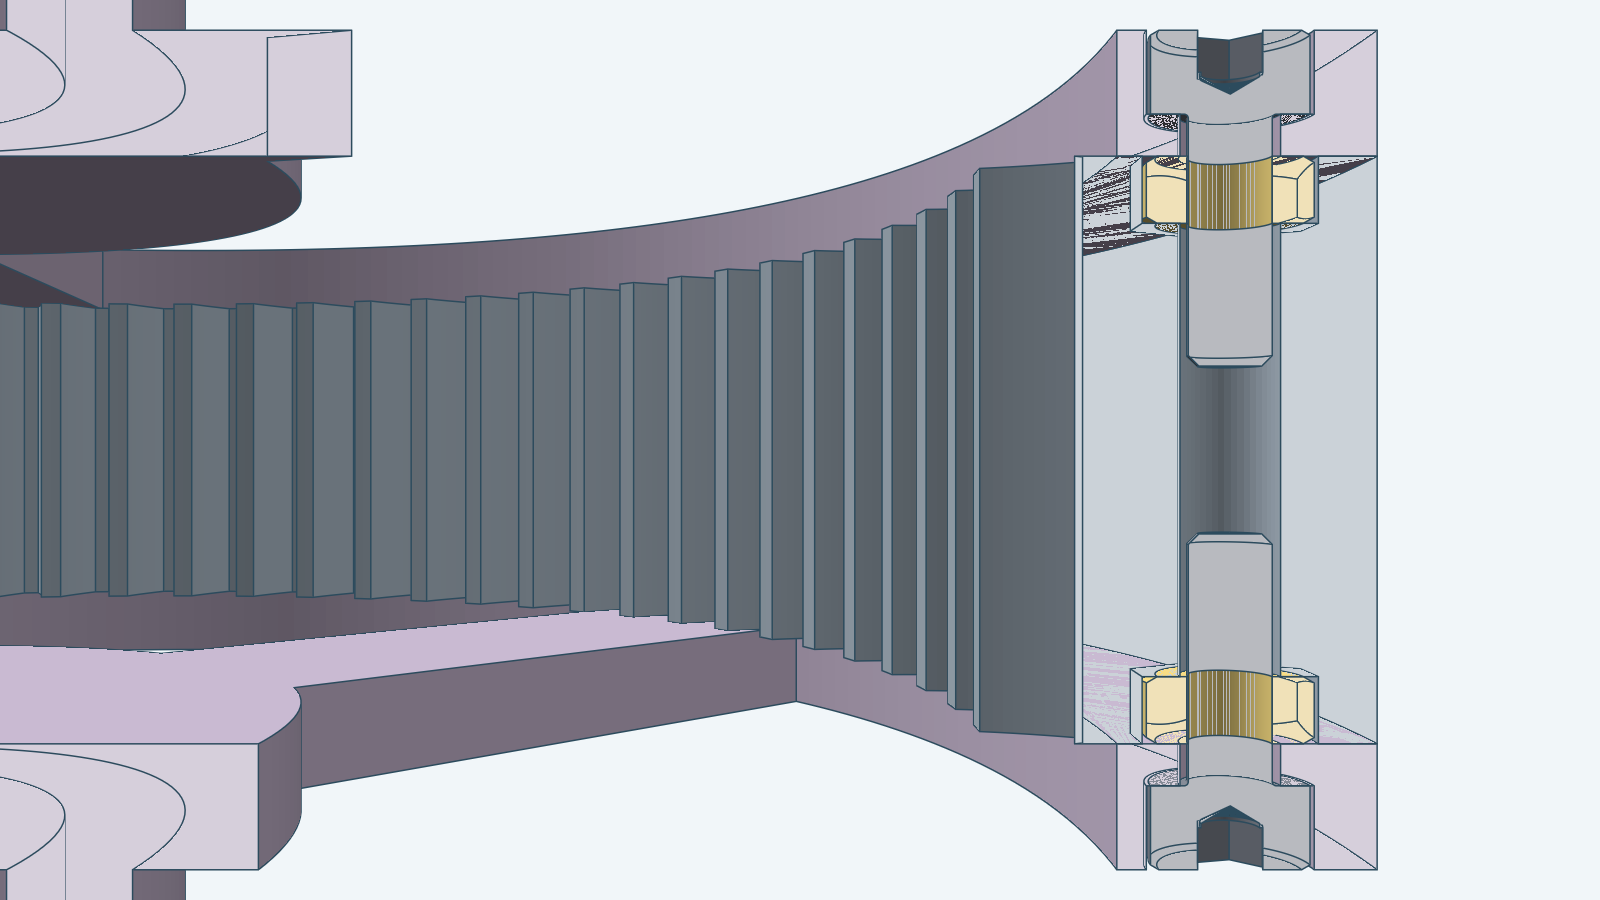
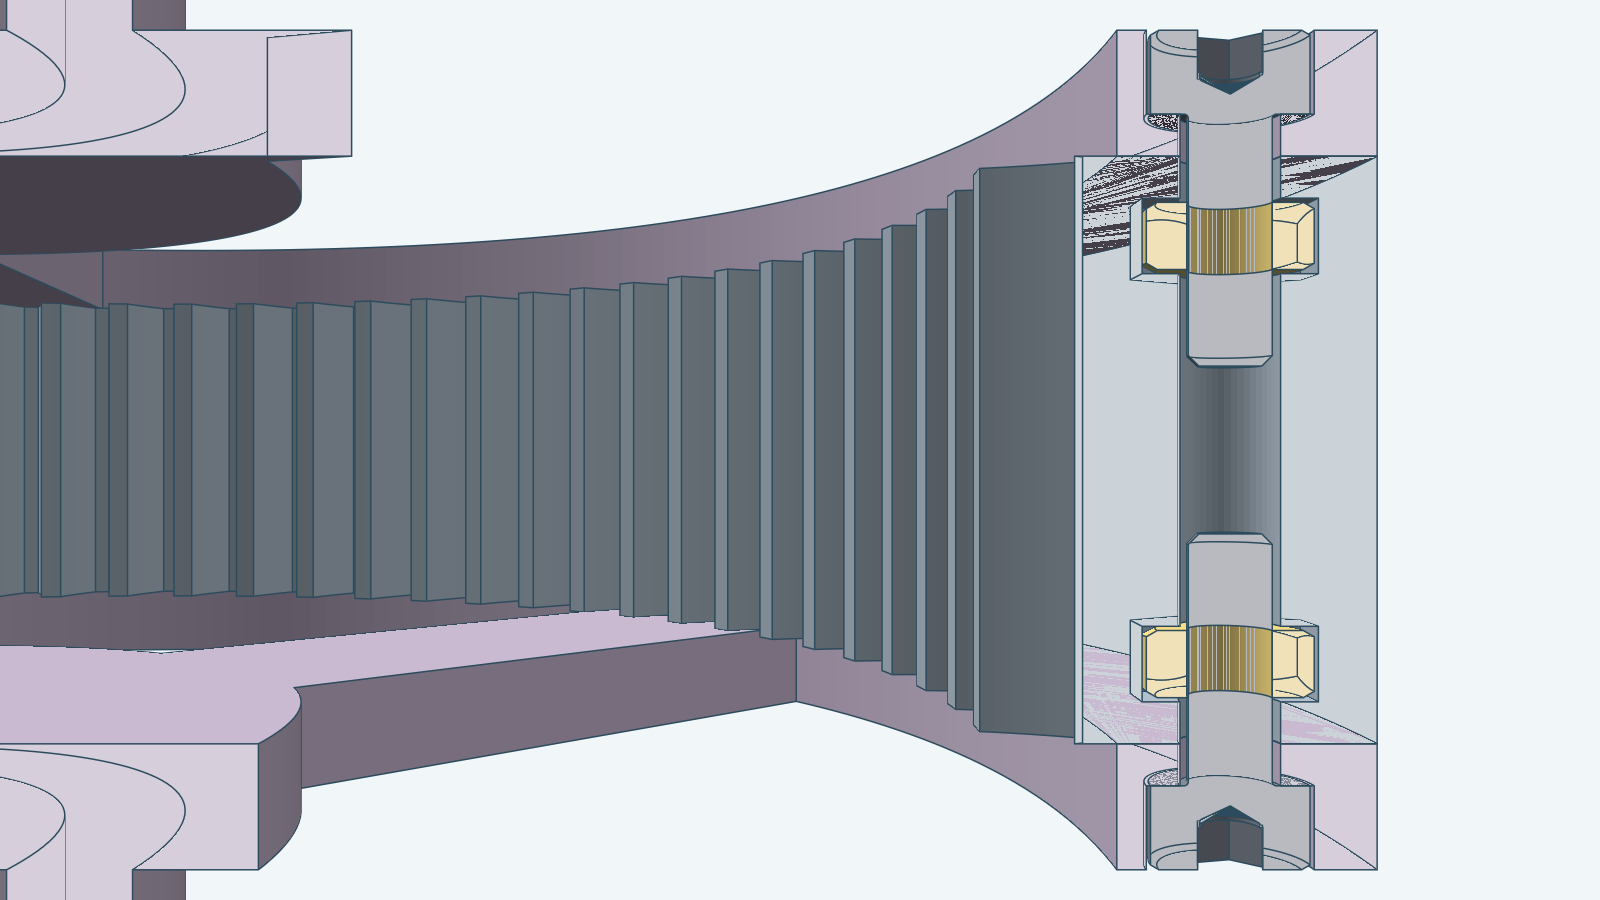
hold the planetary nuts in closed ring cavities

Changed region(s): [[0.6875, 0.1556, 0.8438, 0.3111], [0.6875, 0.6844, 0.8438, 0.84]]

diff --git a/models/planetarygearbox/fasteners.go b/models/planetarygearbox/fasteners.go
@@ -23,8 +23,11 @@ const (
 	// fastenerLength is the bolt length: the shortest standard M2 length. Each bolt holds one cover to the ring,
 	// so its length does not depend on the number of stages.
 	fastenerLength = 6.0
-	// fastenerStock is the pocket tool's reach beyond a face, so no tool face lies in a body face.
+	// fastenerStock is the head pocket tool's reach beyond a face, so no tool face lies in a body face.
 	fastenerStock = 1.0
+	// nutRoof is the ring material between a ring end face and the cavity that holds a nut. The bolt hole runs
+	// through it, and it keeps the nut from falling out of the ring.
+	nutRoof = 1.0
 )
 
 // FrontBoltName is the name of front bolt i (0-based). Four bolts hold each cover to the ring, each head sunk flush
@@ -43,8 +46,11 @@ func RearNutName(i int) string { return fmt.Sprintf("Rear Nut %d", i+1) }
 // headPocketDiameter is the diameter of the pocket that sinks a bolt head in a cover.
 func headPocketDiameter() float64 { return m2bolt.HeadDiameter + 2*fastenerClearance }
 
-// nutPocketFlats is the across-flats width of the pocket that sinks a nut in the ring.
+// nutPocketFlats is the across-flats width of the cavity that holds a nut in the ring.
 func nutPocketFlats() float64 { return m2nut.AcrossFlats + 2*fastenerClearance }
+
+// nutCavityHeight is the axial height of the cavity that holds a nut: the nut's thickness and the clearance at each face.
+func nutCavityHeight() float64 { return m2nut.Thickness + 2*fastenerClearance }
 
 // cutHeadPockets cuts the cover's four head pockets into the +Z (outer) face of the frame so the
 // bolt head ends level with the face.
@@ -92,11 +98,10 @@ func (r *run) cutHeadPockets(ctx context.Context, cover *decad.Body) (*decad.Bod
 	return cover, nil
 }
 
-// buildNutTool builds the cutter for one nut pocket about the local origin: a hexagon of the pocket's
-// across-flats width with its flats parallel to X, from fastenerStock below the origin to the nut's thickness
-// above it.
+// buildNutTool builds the cutter for one nut cavity about the local origin: a hexagon of the cavity's
+// across-flats width with its flats parallel to X, from the origin up the cavity height.
 func (r *run) buildNutTool(ctx context.Context) (*decad.Body, error) {
-	plane, err := r.planeAt(-fastenerStock)
+	plane, err := r.planeAt(0)
 	if err != nil {
 		return nil, fmt.Errorf("nut pocket: %w", err)
 	}
@@ -119,7 +124,7 @@ func (r *run) buildNutTool(ctx context.Context) (*decad.Body, error) {
 		return nil, err
 	}
 	tool, err := decad.Extrude(ctx, r.doc, s, profile,
-		decad.Distance{D: units.Millimeters(fastenerStock + m2nut.Thickness), Dir: decad.Along})
+		decad.Distance{D: units.Millimeters(nutCavityHeight()), Dir: decad.Along})
 	if err != nil {
 		return nil, fmt.Errorf("nut pocket: extrude: %w", err)
 	}
@@ -139,39 +144,40 @@ func (r *run) fastenerSites() []fastenerSite {
 	return sites
 }
 
-// cutNutPockets sinks a hexagonal pocket for a nut in each end face of the ring blank, at the four bolt angles.
-// The blank is the ring's outer cylinder in construction coordinates, from ringMargin up the ring length. A nut's
-// flats face the bolt circle's radius, so the pocket keeps the most wall. The pockets are cut before the tooth
-// spaces, because the cuts then run on a plain cylinder.
+// cutNutPockets cuts a closed hexagonal cavity for a nut inside each end of the ring blank, at the four bolt
+// angles. The blank is the ring's outer cylinder in construction coordinates, from ringMargin up the ring length.
+// A cavity starts nutRoof inside the end face, so the bolt hole is its only opening and the nut cannot fall out of
+// the ring. The nut goes in while the ring prints, with a pause under the cavity's roof. A nut's flats face the bolt
+// circle's radius, so the cavity keeps the most wall. The cavities are cut before the tooth spaces, because the
+// cuts then run on a plain cylinder.
 func (r *run) cutNutPockets(ctx context.Context, blank *decad.Body) (*decad.Body, error) {
 	tool, err := r.buildNutTool(ctx)
 	if err != nil {
 		return nil, err
 	}
-	// The tool spans [z-1, z+1.6]. The front pocket needs [front, front+1.6]; the rear one needs [end-1.6, end+1].
-	front := float64(ringMargin)
-	rear := front + r.d.ringLength - m2nut.Thickness + fastenerStock
+	front := float64(ringMargin) + nutRoof
+	rear := float64(ringMargin) + r.d.ringLength - nutRoof - nutCavityHeight()
 	var moves []r3.Transform
 	for _, z := range []float64{front, rear} {
 		for _, s := range r.fastenerSites() {
 			m, err := pose(r3.Identity(), nutAngle(s), s.x, s.y, z)
 			if err != nil {
-				return nil, fmt.Errorf("nut pocket pose: %w", err)
+				return nil, fmt.Errorf("nut cavity pose: %w", err)
 			}
 			moves = append(moves, m)
 		}
 	}
 	tools, err := instances(ctx, tool, moves)
 	if err != nil {
-		return nil, fmt.Errorf("nut pockets: %w", err)
+		return nil, fmt.Errorf("nut cavities: %w", err)
 	}
 	for i, t := range tools {
 		if blank, err = decad.Cut(ctx, blank, t); err != nil {
-			return nil, fmt.Errorf("cut nut pocket %d: %w", i, err)
+			return nil, fmt.Errorf("cut nut cavity %d: %w", i, err)
 		}
 	}
 	if !blank.IsSolid() {
-		return nil, fmt.Errorf("ring blank with nut pockets is not a solid")
+		return nil, fmt.Errorf("ring blank with nut cavities is not a solid")
 	}
 	return blank, nil
 }
@@ -179,14 +185,16 @@ func (r *run) cutNutPockets(ctx context.Context, blank *decad.Body) (*decad.Body
 // nutAngle is the turn that puts a nut's flats toward the bolt circle's radius; its corners lie on X at zero turn.
 func nutAngle(s fastenerSite) float64 { return s.angle - math.Pi/2 }
 
-// buildFasteners builds the eight M2 bolts and nuts. Each bolt's head ends level with its cover's outer face and
-// each nut ends level with the ring's end face, so nothing stands proud. The bolt tip stays inside the ring's bolt
-// hole beyond the nut.
+// buildFasteners builds the eight M2 bolts and nuts. Each bolt's head ends level with its cover's outer face, so
+// nothing stands proud, and each nut sits in its closed cavity in the ring. The bolt tip stays inside the ring's
+// bolt hole beyond the nut.
 func (r *run) buildFasteners(ctx context.Context, box *Gearbox) error {
 	p, d := r.p, r.d
 	ringEnd := d.ringLength - p.StageGap
 	sites := r.fastenerSites()
-	frontZ := -p.StageGap
+	// A nut rests in its cavity with the clearance below it.
+	frontNutZ := -p.StageGap + nutRoof + fastenerClearance
+	rearNutZ := ringEnd - nutRoof - fastenerClearance - m2nut.Thickness
 	var err error
 
 	bolt, err := m2bolt.Build(ctx, r.doc, m2bolt.Params{Length: fastenerLength})
@@ -216,7 +224,7 @@ func (r *run) buildFasteners(ctx context.Context, box *Gearbox) error {
 		}
 		boltMoves = append(boltMoves, m)
 	}
-	for _, z := range []float64{frontZ, ringEnd - m2nut.Thickness} {
+	for _, z := range []float64{frontNutZ, rearNutZ} {
 		for _, s := range sites {
 			m, err := pose(r.frame, nutAngle(s), s.x, s.y, z)
 			if err != nil {

diff --git a/models/planetarygearbox/fasteners_test.go b/models/planetarygearbox/fasteners_test.go
@@ -11,7 +11,7 @@ import (
 )
 
 // TestFastenersSitFlush checks that four M2 bolts and four nuts join each cover to the ring, that every bolt head
-// ends level with its cover's outer face, and that every nut ends level with the ring's end face.
+// ends level with its cover's outer face, and that every nut sits inside the ring, 1 mm from its end face.
 func TestFastenersSitFlush(t *testing.T) {
 	p := planetarygearbox.DefaultParams()
 	_, box := defaultGearbox(t)
@@ -32,15 +32,16 @@ func TestFastenersSitFlush(t *testing.T) {
 		require.InDelta(t, rearFace, b.Max.Z, 2e-3, "rear bolt %d head is flush", i)
 		require.InDelta(t, rearFace-m2bolt.HeadHeight-6, b.Min.Z, 2e-3, "rear bolt %d tip", i)
 	}
+	// A nut sits in a closed cavity one millimeter inside the ring's end face, so the ring itself holds it.
 	for i, nut := range box.Nuts {
 		require.True(t, nut.IsSolid(), "nut %d", i)
 		b := bounds(t, nut)
 		require.InDelta(t, m2nut.Thickness, b.Max.Z-b.Min.Z, 2e-3, "nut %d thickness", i)
 		if i < 4 {
-			require.InDelta(t, -p.StageGap, b.Min.Z, 2e-3, "front nut %d is flush with the ring", i)
+			require.InDelta(t, -p.StageGap+1.1, b.Min.Z, 2e-3, "front nut %d is inside the ring", i)
 			continue
 		}
-		require.InDelta(t, ringEnd, b.Max.Z, 2e-3, "rear nut %d is flush with the ring", i)
+		require.InDelta(t, ringEnd-1.1, b.Max.Z, 2e-3, "rear nut %d is inside the ring", i)
 	}
 }
 
@@ -62,7 +63,7 @@ func overlapVolume(t *testing.T, a, b *decad.Body) float64 {
 }
 
 // TestFastenersFitTheirPockets checks that no bolt or nut occupies material of the parts it joins: each bolt runs
-// through its cover's hole and head pocket and the ring's hole, and each nut sits in a ring pocket.
+// through its cover's hole and head pocket and the ring's hole, and each nut sits in a ring cavity.
 func TestFastenersFitTheirPockets(t *testing.T) {
 	// The overlap checks copy bodies into their document, so they use a gearbox of their own.
 	box, err := planetarygearbox.Build(t.Context(), decad.New(), planetarygearbox.DefaultParams())

diff --git a/models/planetarygearbox/params.go b/models/planetarygearbox/params.go
@@ -7,7 +7,6 @@ import (
 
 	"github.com/lestrrat-3d/decad-gallery/models/ballbearing"
 	"github.com/lestrrat-3d/decad-gallery/models/m2bolt"
-	"github.com/lestrrat-3d/decad-gallery/models/m2nut"
 	"github.com/lestrrat-3d/r3"
 )
 
@@ -277,8 +276,8 @@ func (p Params) validateFit(d dims) error {
 		return fmt.Errorf("bolt head and nut pockets of radius %v do not fit the ring wall %v with %v of material either side",
 			reach, p.RingWall, float64(pocketMargin))
 	}
-	if d.ringLength < 2*m2nut.Thickness+2*pocketMargin {
-		return fmt.Errorf("ring length %v is too short for a nut in each end", d.ringLength)
+	if d.ringLength < 2*(nutRoof+nutCavityHeight())+2*pocketMargin {
+		return fmt.Errorf("ring length %v is too short for a nut cavity at each end", d.ringLength)
 	}
 	if d.coverHub/2 >= d.rimInner-d.arm {
 		return fmt.Errorf("the cover's bearing hub of diameter %v leaves no room for spokes inside the rim at radius %v",

diff --git a/models/planetarygearbox/instructions.md b/models/planetarygearbox/instructions.md
@@ -22,9 +22,10 @@ The housing is the ring gear and two end covers. The covers are open frames, a r
 bearing hub, so they use little material. Eight M2 bolts and eight M2 nuts hold the housing together, four
 bolts per cover, built from `models/m2bolt` and `models/m2nut`. Each cover's four bolts have 6 mm length (the shortest
 standard length), so the bolt length does not depend on the stage count. A bolt's head sits in a round pocket in the
-cover's outer face and ends level with that face. Its nut sits in a hex pocket in the ring's end face and ends level
-with that face. The bolt passes through the cover's remaining 1 mm and the nut, and its tip stays inside the ring's
-bolt hole. This follows the repository rule that bolt heads and nuts lie flush (see `AGENTS.md`, Fasteners).
+cover's outer face and ends level with that face. Its nut sits in a closed hex cavity in the ring wall, 1 mm behind the
+ring's end face, so the ring holds the nut and it cannot fall out; the bolt hole is the cavity's only opening. The nut
+is dropped in during a print pause. The bolt passes through the cover's remaining 1 mm, the ring's 1 mm roof and the nut,
+and its tip stays inside the ring's bolt hole. This follows the repository fastener rules (see `AGENTS.md`, Fasteners).
 
 The input and the output connect as follows. The shafts are separate bodies from the carriers, so each part
 prints in its own best orientation. The input shaft is an 8 mm rod: it passes through the front cover's bearing
@@ -91,7 +92,7 @@ A nil `Placement` is the one exception.
 | Bolt circle radius | (ring root radius + ring outer radius) / 2 |
 | Cover rim inner radius | bolt circle radius `-` head pocket radius `- 1.5` |
 | Head pocket diameter | `m2bolt.HeadDiameter + 0.2` (depth `m2bolt.HeadHeight`) |
-| Nut pocket width across flats | `m2nut.AcrossFlats + 0.2` (depth `m2nut.Thickness`) |
+| Nut cavity width across flats | `m2nut.AcrossFlats + 0.2` (height `m2nut.Thickness + 0.2`, starting 1 mm behind the ring's end face) |
 | Cover boss diameter | pocket diameter `+ 2 wc` |
 | Cover hub diameter | cover boss diameter `+ 2 wc` |
 | Bearing bore, outside diameter, width `db`, `Db`, `Wb` | 8, 22, 7 (the 608ZZ, from `ballbearing.Params608ZZ`) |
@@ -128,7 +129,7 @@ root radius leaves `m/4` over the planet tip circle, as the sun-planet pair has.
 - Reject bolt holes that leave less than 1.5 mm of material between a hole and the ring's tooth
   roots or outer wall, and a cover bearing hub too wide for spokes inside the rim.
 - Reject `db'` below the M2 shank diameter, a cover thinner than `m2bolt.HeadHeight + 1`, head or nut pockets that
-  leave less than 1 mm of ring wall toward the tooth roots or the outer wall, and a ring too short for a nut at each end.
+  leave less than 1 mm of ring wall toward the tooth roots or the outer wall, and a ring too short for a nut cavity at each end.
 - Reject a seat chamfer outside `[0, 1]`.
 - Reject `T - Wb < 1`: the planet needs a lip at least 1 mm thick under the pocket.
 - Reject a shaft that does not fit between the pin bosses (`ds/2 + boss/2 >= a`) and a carrier plate that
@@ -255,7 +256,7 @@ verify their own sketches.
 | Case | Overrides | Required result |
 | --- | --- | --- |
 | Default | None | 1 ring, 2 covers, 2 cover bearings, 1 input shaft, 1 sun, 3 planets, 3 bearings, 1 carrier, 1 output shaft, 8 bolts, 8 nuts, all solids; ratio 1 + 71/13 |
-| Fasteners | Default | Every bolt head ends level with its cover's outer face, every nut is level with the ring's end face, and no bolt or nut overlaps the cover or ring it passes through |
+| Fasteners | Default | Every bolt head ends level with its cover's outer face, every nut sits in its cavity 1 mm behind the ring's end face, and no bolt or nut overlaps the cover or ring it passes through |
 | Two stages | `K = 2` | The default parts plus a second stage: 2 suns, 6 planets, 6 bearings, 2 carriers and a link shaft before the output shaft; the link shaft fills the second sun's bore |
 | Shaft keys | Default | The input shaft has three keyway grooves, at 0°, 120° and 240°, where the first sun sits and the sun's bore has the matching teeth: in a groove the shaft is absent and the sun present, at 60°, 180° and 300° and elsewhere in the bore the shaft is present and the sun absent; under the front bearing the shaft is a full cylinder; the shaft's volume is a round rod's plus the collar's less the three grooves'; in a two-stage gearbox the link shaft fills the second sun's keyed bore the same way |
 | Housing | Default | The covers and bearings sit at the axial positions above; the bolt holes of the ring and both covers line up; a cover has material on a spoke and none in a window and weighs less than a disc; the input shaft fills the first sun's bore |

diff --git a/models/planetarygearbox/steps.md b/models/planetarygearbox/steps.md
@@ -29,10 +29,10 @@ Build each distinct part once about the local origin and +Z. A gear union fails 
    by that rotation about +Z. Sketch the blank on the plane z=1: a circle of diameter `2 * ring_outer_radius`
    and four bolt-hole circles of diameter `db'` (bound to `bolt_hole_diameter`), each centered on the bolt
    circle at angle `π/4 + iπ/2` and dimensioned from the origin. Select the one valid profile with four
-   holes and extrude it `L` upward. Cut eight hex nut pockets from the blank (`cutNutPockets`): one tool, a hexagon
-   of `s + 2c` across flats with its flats facing the bolt circle's radius, `c = 0.1`, spanning 1 mm below to
-   `m2nut.Thickness` above its plane, copied to the four bolt angles on the front face and, shifted up, on the rear face, so
-   each pocket is `m2nut.Thickness` deep. `decad.Cut` the tooth-space tool from it. Check: one solid.
+   holes and extrude it `L` upward. Cut eight closed hex nut cavities from the blank (`cutNutPockets`): one tool, a hexagon
+   of `s + 2c` across flats with its flats facing the bolt circle's radius, `c = 0.1`, extruded `m2nut.Thickness + 2c` up from its
+   plane, copied to the four bolt angles. Place the front cavities' lower face 1 mm above the front face and the rear
+   cavities' upper face 1 mm below the rear face. The bolt hole is each cavity's only opening. `decad.Cut` the tooth-space tool from it. Check: one solid.
 2. **Sun.** `spurgear.Build` with `Teeth = Zs`, `Thickness = T`, `Backlash = j` and `BoreDiameter = ds` (8, the bearing bore)
    when `Sf = 0`, otherwise no bore. With a keyway, extrude the key tool (see below) from `z = -1` up `T + 2` and
    `decad.Cut` it from the sun.
@@ -94,8 +94,8 @@ Build each distinct part once about the local origin and +Z. A gear union fails 
 
    **Fasteners** (`buildFasteners`). Build `m2bolt.Build` with `Length = 6` and `m2nut.Build` once each, and copy
    them into place. A front bolt is turned over about X so its shank points into the ring, with its head's underside
-   on the pocket floor `HeadHeight` inside the cover's outer face. A rear bolt keeps its orientation. Each nut sits on a
-   ring end face with its flats toward the bolt circle's radius. Four bolts and nuts per cover. Cover rim inner radius
+   on the pocket floor `HeadHeight` inside the cover's outer face. A rear bolt keeps its orientation. Each nut sits in its
+   cavity with `c` below it, its flats toward the bolt circle's radius. Four bolts and nuts per cover. Cover rim inner radius
    is measured from the head pocket's edge, not the hole's.
 
 **Seat chamfer.** `decad.Chamfer` of the pocket's circular rim in the plane `z = T` (planet) or `z = Tv + Wb` (cover)
@@ -168,7 +168,7 @@ The tests in `planetarygearbox_test.go` implement the acceptance cases:
   each bolt angle the ring and both covers are inside beside the bolt hole; a cover
   has material on a spoke and none in a window and weighs less than a disc; points are 1.5 mm or more from any surface.
 - Fasteners: 8 bolts and 8 nuts, all solids. A front bolt's head ends level with the front cover's outer face and a
-  rear bolt's with the rear cover's. Each nut is `m2nut.Thickness` thick and level with the ring's end face. A bolt's tip
+  rear bolt's with the rear cover's. Each nut sits `1 + c` mm behind the ring's end face. A bolt's tip
   is `HeadHeight + 6` from the cover's outer face. No bolt overlaps its cover or the ring and no nut overlaps the ring
   (volume of the intersection of copies). A hole narrower than the bolt shank, a cover thinner than head height plus
   1 mm, and pockets that leave less than 1 mm of ring wall are rejected.

diff --git a/models/planetarygearbox/README.md b/models/planetarygearbox/README.md
@@ -62,25 +62,27 @@ The model does not show a set screw or the coupling to a motor. The input and ou
 ## How the housing is bolted
 
 Eight M2 bolts and eight M2 nuts ([`models/m2bolt`](../m2bolt), [`models/m2nut`](../m2nut)) hold the covers to the
-ring, four bolts and four nuts per cover. Every bolt head and every nut lies flush with the face it is sunk in. The
-section is cut along the plane through the axis and one bolt of each cover, in the one-stage gearbox.
+ring, four bolts and four nuts per cover. Each bolt head lies flush with its cover's outer face. Each nut sits in a
+closed cavity inside the ring wall, so the ring holds the nut and it cannot fall out. The section is cut along the plane
+through the axis and one bolt of each cover, in the one-stage gearbox.
 
 <img src="images/fasteners-section.png" alt="Section through one bolt at each end of the housing" width="800">
 
 Each bolt is 6 mm long. It runs from a cover into the end of the ring and never along the whole housing, so the bolt
 length stays the same for any number of stages. The front and rear bolts share each hole from opposite ends and their
-tips do not meet. The exploded view shows how one rear bolt goes in.
+tips do not meet. The exploded view lifts the nut out of its cavity to show where it sits.
 
 <img src="images/fasteners-exploded.png" alt="Rear cover, nut and bolt pulled apart along one bolt" width="800">
 
-To assemble, press each nut into its ring pocket, set the cover on the ring end, and drive each bolt in from the
-cover's outer face.
+To print the ring, pause the print just below the roof of each nut cavity, drop a nut in with its flats in the cavity's
+walls, and resume. The roof then covers the nut. To assemble, set the cover on the ring end and drive each bolt in from
+the cover's outer face through the ring's 1 mm roof into the nut.
 
 | Part | Pocket | Size |
 | --- | --- | --- |
 | Bolt head | Round, in the cover's outer face | 4.0 mm wide, 2 mm deep, 1 mm of cover under it |
 | Bolt shank | Hole through the cover and the ring | 2.4 mm wide |
-| Nut | Hex, in the ring's end face | 4.2 mm across flats, 1.6 mm deep |
+| Nut | Closed hex cavity in the ring wall, 1 mm behind the end face | 4.2 mm across flats, 1.8 mm high |
 
 ## Parts
 

diff --git a/AGENTS.md b/AGENTS.md
@@ -30,13 +30,14 @@
 
 ## Fasteners
 
-- Sink every bolt head and nut in a pocket in the part it joins, so the head's top face and the nut's outer face lie flush with the part's face. Nothing stands proud.
+- Sink every bolt head in a pocket in the part it joins, so the head's top face lies flush with the part's face. Nothing stands proud.
+- Hold every nut in a cavity the part encloses on all sides except the bolt hole, so the part retains the nut and it cannot fall out. Drop the nut in during a print pause. A pocket open to a face is not enough.
 - Use `models/m2bolt` and `models/m2nut` for M2 fasteners; reference them, do not copy their geometry.
-- Size the pockets from the fastener's constants plus 0.1 mm radial clearance. Make the pocket as deep as the head is tall or the nut is thick.
+- Size the pockets from the fastener's constants plus 0.1 mm radial clearance. Make a head pocket as deep as the head is tall, and a nut cavity as high as the nut is thick plus the clearance.
 - Keep the clearance hole at least the shank diameter (2.4 mm for M2). Keep 1 mm or more of material under a head pocket and around any pocket.
-- Pick a standard bolt length from `m2bolt.StandardLengths()`. A housing too long for one bolt takes shorter bolts from each end, each into a nut in the end face of the middle part, not a custom length.
+- Pick a standard bolt length from `m2bolt.StandardLengths()`. A housing too long for one bolt takes shorter bolts from each end, each into a nut cavity near the end of the middle part, not a custom length.
 - The tip of a bolt may stay inside a hole beyond its nut. It must not stand outside a face.
-- Test that each head and nut ends flush (bounds) and that no fastener overlaps the parts it passes through.
+- Test that each head ends flush and each nut sits inside its cavity (bounds), and that no fastener overlaps the parts it passes through.
 
 ## Verification
 

diff --git a/docs/models/planetarygearbox.md b/docs/models/planetarygearbox.md
@@ -37,7 +37,7 @@ One pin joined to its collar is patterned and unioned to the plate in a single s
 of every pin and collar separately. `buildShaft` joins a round rod and an optional collar, then cuts the three grooves. A cover is one extruded frame (a rim
 with four bolt holes, three spokes and a hub, so its section has eight holes) joined to a bearing boss; the ring blank
 has the same four bolt holes as inner loops of its section. A cover then has four round pockets cut for the M2 bolt heads,
-and the ring blank has eight hex pockets cut for the M2 nuts, before the tooth spaces are cut. The bolts and nuts are built
+and the ring blank has eight closed hex cavities cut for the M2 nuts, before the tooth spaces are cut. The bolts and nuts are built
 once by `models/m2bolt` and `models/m2nut` and copied into place (`fasteners.go`). The ring is a cylinder with the tooth spaces cut out by a 71-tooth
 spur gear whose root circle is the ring's tip circle and whose tip circle is the ring's root circle (`ringTool` in
 `gears.go`). `phase.go` turns each planet, and the ring tool, so their teeth enter the sun's and the ring's gaps.
